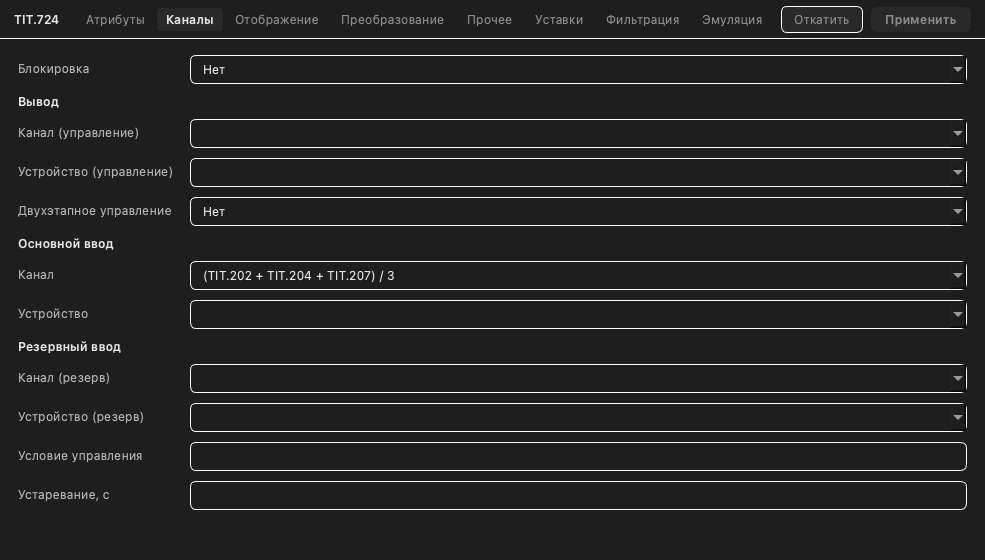
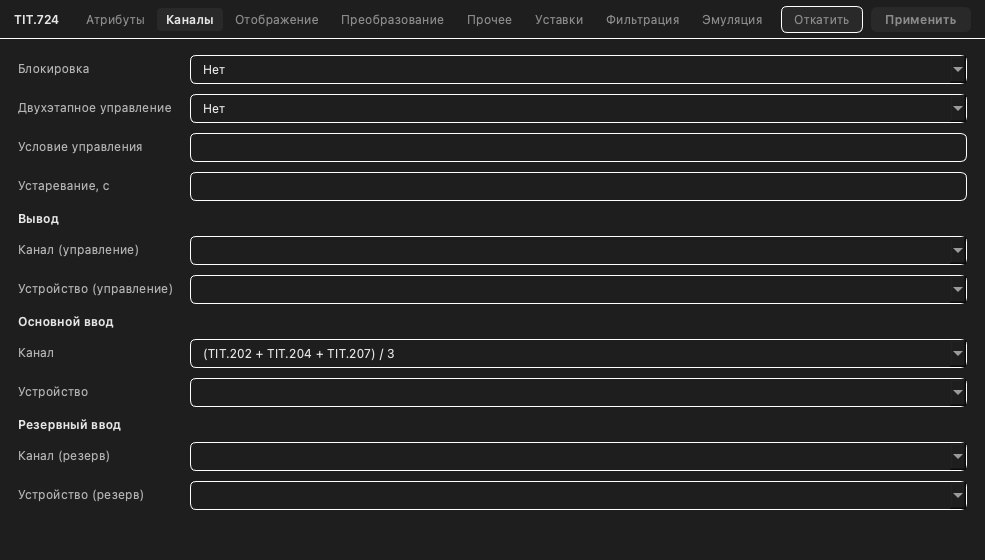
client: configuration screens flag duplicate addresses, name the failed side, show whole headers
Third slice of the UX audit (docs/client/ux/audit-2026-11-25.md §4,
items 4.1-4.4).

- 4.1: the device form's address map flags two signals of one direction
  at one address — a Status column, «⚠ Повтор адреса», shown only when
  something conflicts — as the transmission rules view already did
  (FindDuplicateAddresses, parameter_form/address_map_row.h). A polled
  and a retransmitted signal at one address are not a conflict.
- 4.2: the diagnostics panel's link row is «Состояние соединения», and
  the «Нет связи» banner says which side failed: «соединение работает,
  устройство не отвечает» or «соединение не работает»
  (DeviceDownDetail). An expired t1 is drawn as bad; the round-trip
  reads «мс». The detail wraps rather than widening the dock.
- 4.3: no generic grid or table column defaults below its own title,
  and every header carries its title as a tooltip
  (aui/qt/header_width.h). A grid whose columns arrive after
  construction — the bulk element table — widens them to their hints
  instead of leaving the header's default; the device form's preview
  grids take the same floor. «ройство (резе» reads «Устройство (резерв)».
- 4.4: a property tab lays out its plain fields before its sections, so
  «Условие управления» and «Устаревание» no longer sit under «Резервный
  ввод». Moving the condition under «Вывод» would change the nodeset and
  is left alone.

Tests: FindDuplicateAddresses (3), AddressMapFlagsDuplicateAddresses,
[…]

diff --git a/client/workbench.md b/client/workbench.md
@@ -56,10 +56,14 @@ permalink: /client/workbench/
   [Модуль отображения ранней сборки]({{ '/client/display/' | relative_url }}#old-runtime)).
 
 Для устройства МЭК-60870-5 панель «Диагностика устройства» показывает также
-состояние его связи и кнопку «Переподключить сейчас», которая разрывает и
+состояние соединения, через которое оно опрашивается («Состояние соединения»),
+и кнопку «Переподключить сейчас», которая разрывает и
 заново устанавливает соединение. Связь общая для всех устройств на ней, поэтому
 переподключение прерывает обмен со всеми ними. Кнопка доступна учётной записи с
-правом управления; с Сервером версии 2.5.7 строк связи и кнопки нет.
+правом управления; с Сервером версии 2.5.7 строк связи и кнопки нет. Плашка
+«Нет связи» вверху панели относится к самому устройству, а строка под ней
+уточняет, где обрыв: «соединение работает, устройство не отвечает» или
+«соединение не работает». Истёкший таймаут t1 выделяется красным.
 
 > **Внимание.** Строку состояния можно скрыть (*Настройки → Настройки... →
 > Рабочая область → Строка состояния*, отдельно для каждого главного окна), и

diff --git a/dev/devices.md b/dev/devices.md
@@ -74,7 +74,9 @@ permalink: /dev/devices/
 объекты данных, которые устройство опрашивает: адрес берется из поля «Канал»
 объекта (смотрите [Объекты данных]({{ '/dev/data-items/' | relative_url }})).
 Если у устройства есть и те и другие, добавляется колонка «Направление» —
-«Опрос» или «Ретрансляция». Вкладка появляется, только когда перечень не
+«Опрос» или «Ретрансляция». Если два сигнала одного направления стоят на
+одном адресе, появляется колонка «Статус», и у каждого из них написано
+«⚠ Повтор адреса» — исправьте адрес одного из них. Вкладка появляется, только когда перечень не
 пуст; у устройств МЭК-61850 ее нет. Той же картой пользуется
 [разбор кадра]({{ '/client/device-watch/' | relative_url }}) в окне
 наблюдения. В Клиентах 2.6.0–2.6.4 карта содержала только правила

diff --git a/en/client/workbench.md b/en/client/workbench.md
@@ -57,11 +57,15 @@ The workbench regions:
   [A display module from an earlier build]({{ '/en/client/display/' | relative_url }}#old-runtime)).
 
 For an IEC 60870-5 device the Device diagnostics panel also shows the state
-of its link and a "Reconnect now" («Переподключить сейчас») button, which
+of the connection it is polled over ("Connection state", «Состояние
+соединения») and a "Reconnect now" («Переподключить сейчас») button, which
 drops and re-establishes the connection. The link is shared by every device
 on it, so reconnecting interrupts the exchange with all of them. The button is
 available to an account with the control right; with a version 2.5.7 Server
-neither the link rows nor the button are shown.
+neither the link rows nor the button are shown. The "Link down" («Нет связи») banner at
+the top of the panel is about the device itself, and the line under it says
+where the break is: "link is up; the device does not answer" or "the link is
+down". An expired t1 timeout is shown in red.
 
 > **Caution.** The status bar can be hidden (*Settings → Settings... →
 > Workspace → Status Bar*, separately for each main window), and then nothing

diff --git a/en/dev/devices.md b/en/dev/devices.md
@@ -77,7 +77,10 @@ columns Signal, Type (`TS` or `TI`), Address and NodeId. It holds the device's
 [retransmission](#retransmission) rules and, since Client 2.6.8, the data items
 the device polls, with the address taken from the item's Channel field (see
 [Data items]({{ '/en/dev/data-items/' | relative_url }})). When a device has
-both, a Direction column says Polled or Retransmitted. The tab appears only
+both, a Direction column says Polled or Retransmitted. When two signals of
+the same direction share an address, a Status column appears and each of them
+reads "⚠ Duplicate address" («Повтор адреса») — change one of the
+addresses. The tab appears only
 when the list is not empty; IEC 61850 devices have none. The
 [frame decode]({{ '/en/client/device-watch/' | relative_url }}) in the device
 watch window uses the same map. In Clients 2.6.0–2.6.4 the map held the
